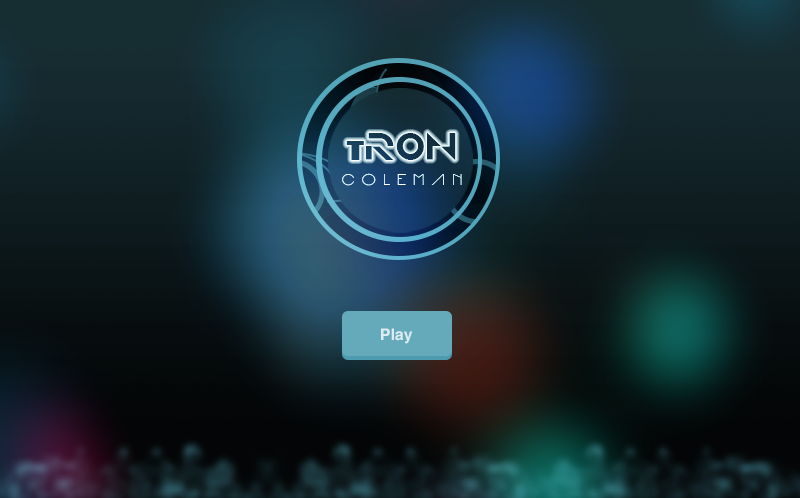
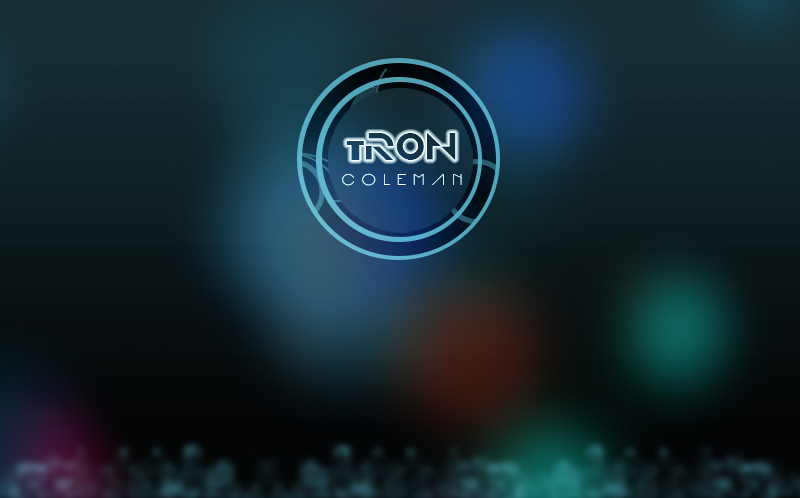
buttons and ish

Changed region(s): [[0.4062, 0.6024, 0.5625, 0.7229]]

diff --git a/javascript/scenes.js b/javascript/scenes.js
@@ -1,12 +1,41 @@
 Crafty.scene("Menu", function() {
 	Crafty.background('url(images/main-menu-bg.png)');
-    Crafty.e("2D, DOM, Color, Mouse")
-            .attr({w: 110, h: 50, x: 342, y: 310})
+    Crafty.e("2D, DOM, Color, Mouse, Image")
+			.image("images/playUp.png")
+			.attr({w: 50, h: 50, x: 320, y: 300})
+            //.attr({w: 110, h: 50, x: 342, y: 310})
             .css({"cursor": "pointer"})
             .bind("Click", function() {
-				Crafty.scene("Game");
+				//Crafty.scene("Game");
 			});
-
+	Crafty.e("2D, DOM, Color, Mouse, Image")      
+			.image("images/instruction.png")
+			.attr({w: 200, h: 50, x: 200, y: 400})
+            .css({"cursor": "pointer"})
+            .bind("Click", function() {
+				//Crafty.scene("InstructionScene");
+			});
+	Crafty.e("2D, DOM, Color, Mouse, Image")      
+			.image("images/about.png")
+			.attr({w: 200, h: 50, x: 370, y: 400})
+            .css({"cursor": "pointer"})
+            .bind("Click", function() {
+				//Crafty.scene("AbourScene");
+			});
+	Crafty.e("2D, DOM, Color, Mouse, Image")      
+			.image("images/highscores.png")
+			.attr({w: 200, h: 50, x: 480, y: 400})
+            .css({"cursor": "pointer"})
+            .bind("MouseOver", function(e) {
+				this.image("images/highscores2.png");
+			})
+			this.bind("MouseOut", function(e) {
+				this.image("images/highscores.png");
+			});
+			/*this.bind("Click", function() {
+				//Crafty.scene("HighscoreScene");
+			});*/
+				
 });
 
 Crafty.scene("Game", function() {
@@ -51,6 +80,8 @@ Crafty.scene("Game", function() {
 
 });
 
+				
+
 Crafty.scene("FinishScene", function(){
 	    // Add Constant background
     Crafty.background('url(images/city-bg2.png)');
@@ -63,10 +94,13 @@ Crafty.scene("FinishScene", function(){
 });
 
 Crafty.scene("DeathScene", function(){
-	    // Add Constant background
-    Crafty.background('url(images/city-bg2.png)');
-    Crafty.e("2D, DOM, Text").attr({ x: 100, y: 100 })
-    	.text("You Lost. sucks. ").css({"font-size": "40px", "color":"white"});
+	   Crafty.background('url(images/instructions.png)');
+	   Crafty.e("2D, DOM, Color, Mouse")
+	   		.attr({w: 110, h: 50, x: 342, y: 300})
+            .css({"cursor": "pointer"})
+            .bind("Click", function() {
+				Crafty.scene("Menu");
+			});
     
 });
 

diff --git a/index.html b/index.html
@@ -6,7 +6,7 @@
     </head>
     <body>
         <header>
-            <nav>
+          <nav>
                 
             </nav>
         </header>
